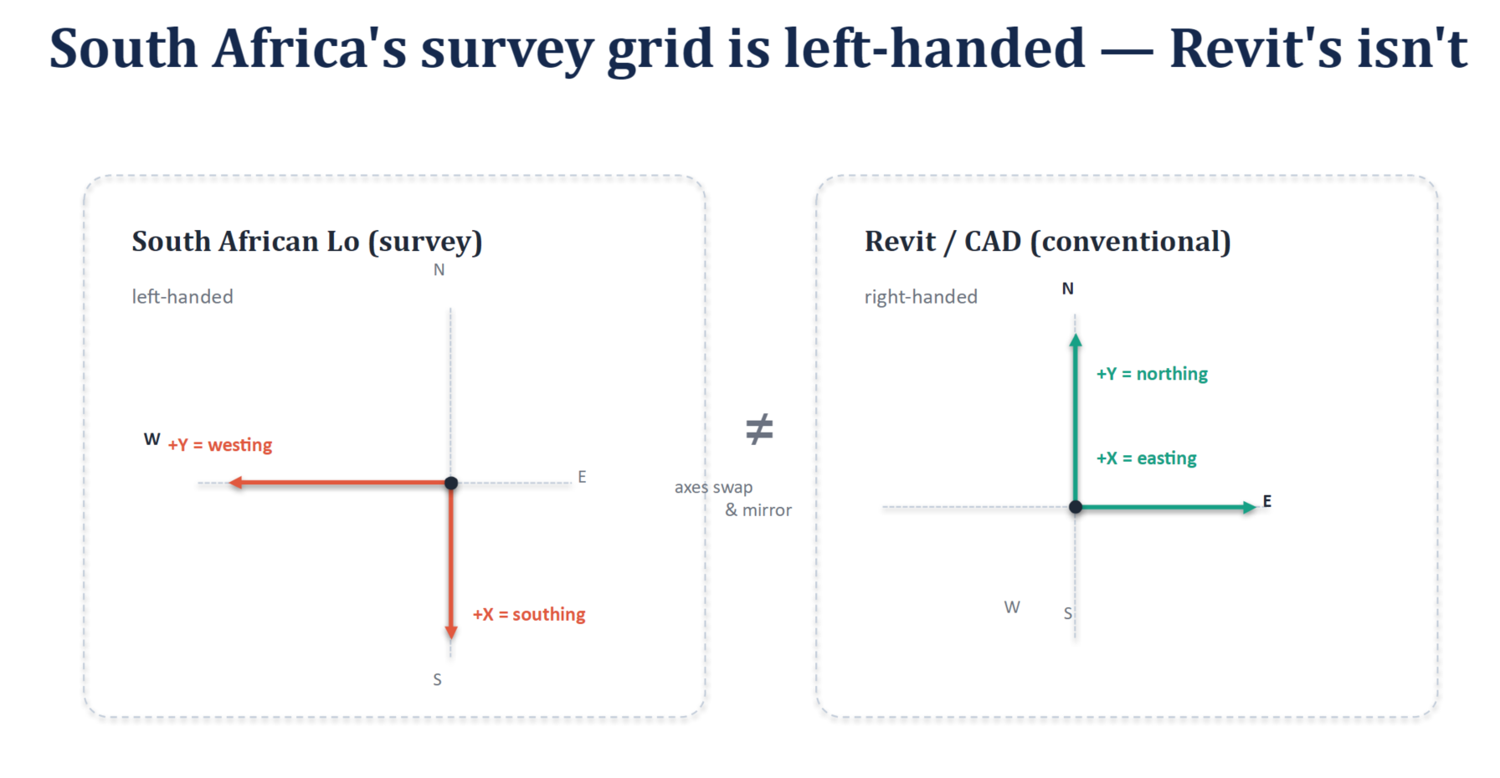
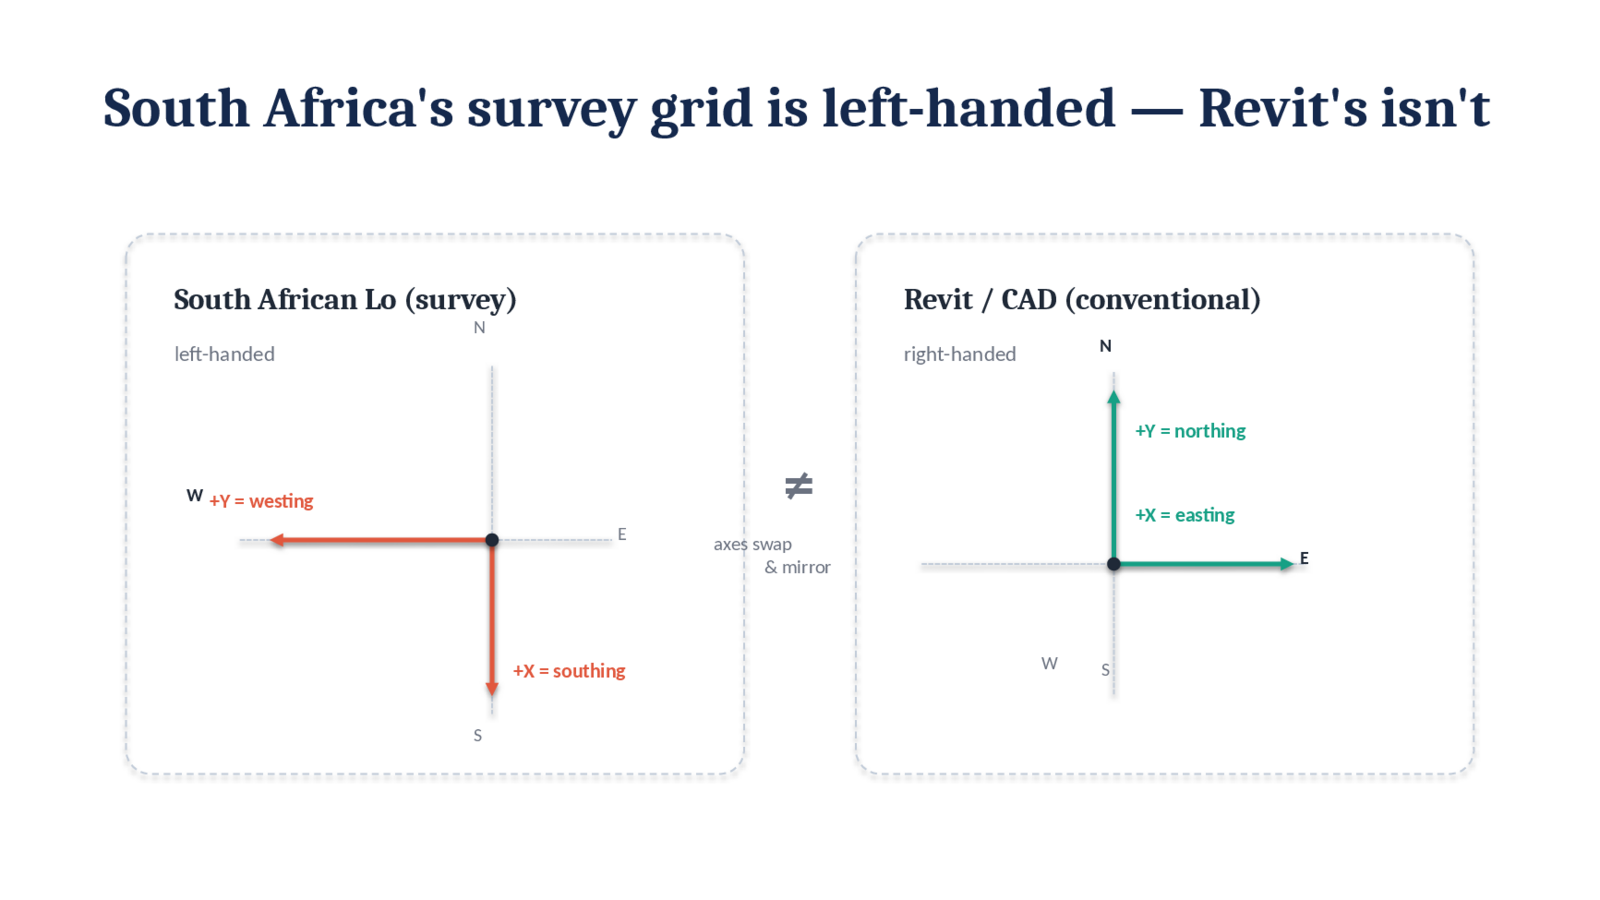
docs: add shared-coordinates deep-dive to the Harrismith example
New examples/harrismith-fire-station/shared-coordinates.md explains how
Revit geolocates onto the Civil 3D survey: two teams/two origins, the
left-handed SA Lo29 grid, a local origin anchored via the Survey Point,
the 25 survey points in Civil 3D, the two-point Shared Reference Point
bridge (Civil 3D export -> Revit import), why the Project Base Point
shows huge negative millimetres, and the set-once payoff. Uses the
CogStack/Triviron theory-deck diagrams and the Civil 3D 25-points shot.
Linked from Harrismith stage 1 and the guide reference list; upgraded the
stage-1 grid image to the crisp vector render.

diff --git a/examples/harrismith-fire-station/shared-coordinates.md b/examples/harrismith-fire-station/shared-coordinates.md
@@ -1,0 +1,55 @@
+# Shared Coordinates — how Revit geolocates onto the Civil 3D survey
+
+A drill-down from the [Harrismith worked example](README.md): the question everyone eventually asks — *how does the Revit model end up sitting on the real site, in the South African survey system, lined up with the civil team's drawing?* The answer is **shared coordinates**, the bridge between Civil 3D and Revit. Here it is worked through on Harrismith (Hartebeesthoek94 / Lo29, EPSG:2053).
+
+## Two teams, two origins
+
+![Civil 3D draws at the real survey position; Revit starts at an arbitrary 0,0,0](images/sc-01-two-origins.png)
+
+The civil team draws at the **real survey position** — the site's true place on Earth (roughly E 11,200 m, N 3,129,499 m on Lo29). The Revit team starts at an **arbitrary 0, 0, 0**, wherever the model happened to begin. Link the two files naively and the building floats kilometres off the site — and Navisworks clash detection becomes meaningless, because nothing is where it claims to be.
+
+## The South African wrinkle: a left-handed grid
+
+![South Africa's Lo survey grid is left-handed; Revit is right-handed](images/01-lo29-grid-flip.png)
+
+South Africa's Lo survey grid is **left-handed**: positive X is *southing*, positive Y is *westing*. Revit and CAD are **right-handed**: positive X is easting, positive Y is northing. The axes swap *and* mirror, so the flip alone — if you get it wrong — lands the building in the wrong place.
+
+## Shared coordinates: a local origin anchored to the real world
+
+![A local 0,0,0 anchored to the real Lo29 position via the survey point](images/sc-03-shared-coordinates.png)
+
+The fix is to keep drawing and dimensioning around a comfortable local **0, 0, 0** (the **Project Base Point**), while that local frame is anchored to the true Lo29 position through the **Survey Point** — an offset of roughly 3,130 km that Revit carries in the background and shares with Civil 3D and Navisworks. You get a convenient origin to work in *and* a model that knows where it really is.
+
+## The 25 coordinates, in Civil 3D
+
+![The Harrismith site set out from 25 survey points on the Lo29 grid in Civil 3D](images/sc-02-civil-25-points.png)
+
+On Harrismith the survey gives **25 points** on the Lo29 grid — the real setting-out of the site, held in Civil 3D. These are the ground truth everything else has to agree with.
+
+## The bridge: agree on two physical points
+
+![Agree on two points; Civil 3D exports them; Revit matches them](images/sc-04-the-bridge.png)
+
+This is the part that actually geolocates the model — and the step most people are unsure about:
+
+1. **Both teams agree on the same two physical points** — for example two site setting-out points.
+2. **The civil team exports them.** Civil 3D's *Shared Reference Point* tool writes their real Lo29 position and grid rotation into a small `.xml`.
+3. **Revit matches them.** It reads the `.xml`, and the whole model snaps onto the real grid.
+
+The one rule: **the same two points, selected in the same order, at the same elevation.**
+
+## Why Revit then shows huge negative millimetres — and why that's correct
+
+![Project Base Point values in the billions of negative millimetres](images/sc-05-negative-mm.png)
+
+Open the Project Base Point afterwards and you'll see values like N/S −3,129,499,999.6, E/W −11,200,001.0 (millimetres). It looks broken; it isn't. Project units are millimetres, so a 3.13 km southing becomes about 3.13 *billion* mm. The signs flip on purpose — South Africa's south/west-positive convention maps onto Revit's north/east-positive one. It's internal bookkeeping; the civil team never sees these numbers in their drawings.
+
+## Set it once — everything aligns
+
+![Revit reports real Lo29, DWG round-trips, Navisworks federates cleanly](images/sc-06-set-once.png)
+
+Do it once and it holds. Revit reports the real Lo29 position while you still draw from a comfortable local origin. Export to DWG on the shared basis and it drops straight back into Civil 3D — no nudging. And Navisworks federates the civil surface and the Revit model on the terrain at Harrismith, so clash detection is finally trustworthy.
+
+---
+
+*Companion to the [Harrismith worked example](README.md) and the [BIM Workflow Guide](../../README.md).*

diff --git a/README.md b/README.md
@@ -214,7 +214,7 @@ Separate reference and appendix material:
 - [Diagram exports & credit](diagrams/revit/README.md) · [Inspiration & credit](diagrams/inspiration/README.md)
 - [PRD](PRD.md) — product requirements
 - [Related CogStack repos](links/related-repos.md) · [Learning resources](links/learning-resources.md) *(coming soon)*
-- Examples: [Harrismith Fire Station — worked example](examples/harrismith-fire-station/README.md) · [BIM Clash Visual Atlas](examples/bim-clash-visual-atlas/README.md) *(coming soon)*
+- Examples: [Harrismith Fire Station — worked example](examples/harrismith-fire-station/README.md) — incl. [shared-coordinates deep-dive](examples/harrismith-fire-station/shared-coordinates.md) · [BIM Clash Visual Atlas](examples/bim-clash-visual-atlas/README.md) *(coming soon)*
 
 ### Versioning strategy
 

diff --git a/examples/harrismith-fire-station/README.md b/examples/harrismith-fire-station/README.md
@@ -22,6 +22,8 @@ Everything downstream has to sit in the same place in space, so the project star
 
 *A South-African wrinkle worth its own note: the Lo survey grid is left-handed while Revit/CAD is right-handed. Getting that flip right is what keeps the model on the correct spot on Earth.*
 
+→ **Drill-down:** [how Revit geolocates onto the Civil 3D survey (shared coordinates)](shared-coordinates.md).
+
 ### 2. Architecture — the Revit model
 
 The architectural model is authored in Revit on those coordinates, and becomes the first shape of the building the other disciplines design against. On the diagram it's a [Consultant Model ①](../../README.md#1-coordinated-models), shared through [Design Collaboration ②](../../README.md#2-design-collaboration).